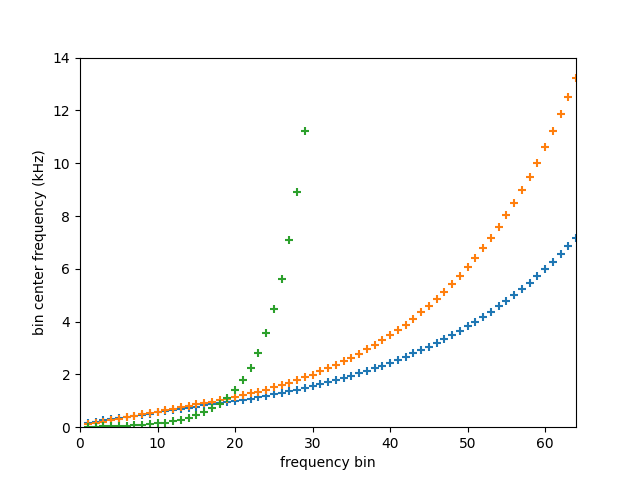
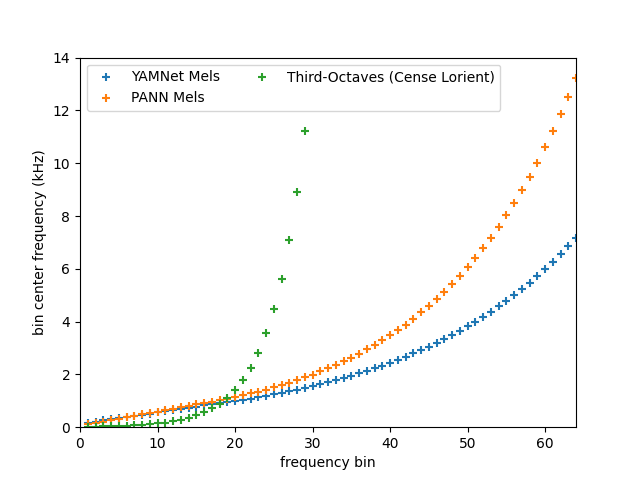
add images in readme

Changed region(s): [[0.4375, 0.125, 0.7812, 0.1875], [0.1875, 0.125, 0.3438, 0.2188]]

diff --git a/plot_thirdo_mel_bands_repartition.py b/plot_thirdo_mel_bands_repartition.py
@@ -13,9 +13,10 @@ mel_filter_pann_index = np.argmax(mel_filter_pann, axis=1)*scaling_factor
 tho_filter_index = np.argmax(tho_filter, axis=1)*scaling_factor
 plt.xlabel('frequency bin')
 plt.ylabel('bin center frequency (kHz)')
-plt.scatter(np.arange(1,len(mel_filter_yamnet_index)+1), mel_filter_yamnet_index, marker="+")
-plt.scatter(np.arange(1,len(mel_filter_pann_index)+1), mel_filter_pann_index, marker="+")
-plt.scatter(np.arange(1,len(tho_filter_index)+1), tho_filter_index, marker="+")
+plt.scatter(np.arange(1,len(mel_filter_yamnet_index)+1), mel_filter_yamnet_index, marker="+", label = "YAMNet Mels")
+plt.scatter(np.arange(1,len(mel_filter_pann_index)+1), mel_filter_pann_index, marker="+", label="PANN Mels")
+plt.scatter(np.arange(1,len(tho_filter_index)+1), tho_filter_index, marker="+", label="Third-Octaves (Cense Lorient)")
+plt.legend(ncol=2, bbox_to_anchor=(0, 1), loc='upper left')
 plt.ylim(0, 14)
 plt.xlim(0,64)
 plt.show()

diff --git a/README.md b/README.md
@@ -32,7 +32,7 @@ Those datasets must imperatively be downloaded through this command, as the name
 python3 download_datasets.py --output mypath
 ```
 
-### Experiment: training models
+### a) Experiment: training models
 
 Execute the following commands to generate third-octave and Mel data from the [TAU Urban Acoustic Scenes 2020 Mobile](https://dcase.community/challenge2021/task-acoustic-scene-classification) dataset. Those data will be used to train and evaluate the models in the subsequent sections. 
 
@@ -47,7 +47,7 @@ python3 exp_train_model/create_mel_tho_dataset.py --output_path yourpath/
 ```
 
 The experiment plan is developped with [doce](https://doce.readthedocs.io/en/latest/). 
-To reproduce only the results shown in the paper, please use the following commands:
+To reproduce only the results shown in the paper, please use the following commands (about 50h of calculation on a single GPU):
 
 ```
 python3 exp_train_model/launch_experiment/launch_exp_py.py --exp_type restricted
@@ -104,7 +104,7 @@ python3 exp_train_model/plot_training_curve.py
 ```
 
 
-### Experiment: Evaluate models on classification datasets
+### b) Experiment: Evaluate models on classification datasets
 
 To evaluate the model on [UrbanSound8k](https://urbansounddataset.weebly.com/urbansound8k.html) and [SONYC-UST](https://zenodo.org/record/3966543#.ZFtddpHP1kg), please execute the following commands to
 generate the logit data (classes predictions) from the classifiers and the transcoded classifiers. The
@@ -125,8 +125,8 @@ python3 exp_classif_eval/main_doce_score.py -s deep/ -c
 Then, you can export the results of the experiment ("results_classif_urbansound8k.png", "results_classif_sonycust.png") in a png format in the "export" folder using the following commands:
 
 ```
-python3 exp_classif_eval/main_doce_score.py -s "{'dataset':'URBAN-SOUND-8K'}" -d [0] -e results_classif_urbansound8k.png
-python3 exp_classif_eval/main_doce_score.py -s "{'dataset':'SONYC-UST'}" -d [1] -e results_classif_sonycust.png
+python3 exp_classif_eval/main_doce_score.py -s deep/dataset=URBAN-SOUND-8K -d [0] -e results_classif_urbansound8k.png
+python3 exp_classif_eval/main_doce_score.py -s deep/dataset=SONYC-UST -d [1] -e results_classif_sonycust.png
 ```
 
 
@@ -142,10 +142,26 @@ The generated wav files will be placed in the generated_audio folder. It will co
 
 ## 4 - Complementary experiment results
 
-The spectrograms shown in the paper are available in results/spectro_dcase_2023.png (run plot_spectro_dcase2023.py to replicate the figure).
+Figure below (run plot_spectro_dcase2023.py to replicate the figure) shows the transcoding result with several transcoding algorithm (PINV transcoder, CNN-mels transcoder and CNN-logits transcoder) on a 1s audio excerpt from the evaluation dataset.
 
-The figure results/thirdo_mels_bands_repartition.png (run plot_thirdo_mels_bands_repartition.py to replicate the figure) shows the repartition of the Mel spectrograms bands and the third-octave bands on the frequency axis. This repartition clearly shows that there are more third-octave bands in the lower frequencies (below 1kHz) than there are Mel bands. This demonstrates that the task of transforming Mel bands into third-octave bands is not obvious, even if there are more Mel bins in Mel spectrograms.
+<img src="resources/spectro_dcase_2023.png" width=400>
 
-As stated in the paper *Spectral Transcoder : Using Pretrained Urban Sound Classifiers On Undersampled Spectral Representations*, we propose a revised version of F.Gontier et al. aggregation method proposed in the paper [Polyphonic training set synthesis improves self-supervised urban sound classification](https://hal-nantes-universite.archives-ouvertes.fr/hal-03262863/). During inference, some of the classes that were considered relevant for each SONYC-UST class are grouped. The groups made during inference are the one in the files exp_classif_eval/sub_classes_sonyc_ust.xlsx and exp_classif_eval/sub_classes_urbansound8k.xlsx. In Gontier et al. 's paper, if in the highest top 3 predictions of YamNet one predicted class among the 527 belongs to one of the meta-classes (traffic, voice, birds in their paper), the meta-class was considered present. Instead of taking the top 3, the top 8 classes of SONYC-UST is taken into account for the aggregation. In our case, we believe that Gontier et al.'s method can result in some false negatives for multi-label classification. For example, if there are is some music in the audio excerpt, it is very likely that the 8 first predicted classes will be related to music (ex: 1:Music, 2:Musical Instrument, 3:Guitar, 4:Pop Music, 5:Drum, 6:Piano, 7:Bass Guitar, 8:Acoustic Guitar), and so the next prediction at position 9 will not be considered present in the audio excerpt (ex: 9: Speech). We propose to group classes together during inference, so that it leads to less false negatives (ex: 1:SONYC-UST Music 2: SONYC-UST HumanVoice, 3: Mosquito etc...). This lead to a higher mAUC than Gontier et al's method for SONYC-UST. The same kind of aggregation is made for UrbanSound8k, but in a more simple multi-class classification paradigm (the meta-class is present if one of its classes has the highest score). 
+Being able to transcode Mel spectrograms into third-octave spectrograms easily would have been convenient for training a deep learning model. This would for example allow an auto-encoding approach. Nevertheless, this task is not obvious, even if there are more Mel bins in Mel spectrograms. Indeed, figures below (run plot_thirdo_mels_bands_repartition.py to replicate the figure) shows the repartition of the Mel spectral bands and the third-octave bands on the frequency axis. As there are more third-octave bands in the lower frequencies (below 1kHz) than there are Mel bands, we cannot easily transcode Mels to third-octaves, particularly in that part of the spectrum. 
 
+<img src="resources/thirdo_mels_bands_repartition.png" width=400>
+
+As stated in the paper *Spectral Transcoder : Using Pretrained Urban Sound Classifiers On Undersampled Spectral Representations*, we propose a revised version of F.Gontier et al. aggregation method proposed in the paper [Polyphonic training set synthesis improves self-supervised urban sound classification](https://hal-nantes-universite.archives-ouvertes.fr/hal-03262863/). During inference, some of the classes that were considered relevant for each SONYC-UST class are grouped. The groups made during inference are the one in the files exp_classif_eval/sub_classes_sonyc_ust.xlsx and exp_classif_eval/sub_classes_urbansound8k.xlsx. 
+
+In Gontier et al. 's paper, if in the highest top 3 predictions of YamNet one predicted class among the 527 belongs to one of the meta-classes (traffic, voice, birds in their paper), the meta-class was considered present. Instead of taking the top 3, the top 8 classes of SONYC-UST is taken into account for the aggregation. In our case, we believe that Gontier et al.'s method can result in some false negatives for multi-label classification. For example, if there are is some music in the audio excerpt, it is very likely that the 8 first predicted classes will be related to music (ex: 1:Music, 2:Musical Instrument, 3:Guitar, 4:Pop Music, 5:Drum, 6:Piano, 7:Bass Guitar, 8:Acoustic Guitar), and so the next prediction at position 9 will not be considered present in the audio excerpt (ex: 9: Speech). We propose to group classes together during inference, so that it leads to less false negatives (ex: 1:SONYC-UST Music 2: SONYC-UST HumanVoice, 3: Mosquito etc...). This lead to a higher mAUC than Gontier et al's method for SONYC-UST. The same kind of aggregation is made for UrbanSound8k, but in a more simple multi-class classification paradigm (the meta-class is present if one of its classes has the highest score). 
+
+The results of this method, compared to the method where we add fully connected layers at the output of the pre-trained models (method explained in the paper), are shown in the table below. Where deep is set to 1, it means that fully connected layers are used, where deep is set to 0, it means that the aggregation method mentioned in the previous paragraph is used.
+
+<img src="resources/results_classif_sonycust.png" width=400>
+<img src="resources/results_classif_urbansound8k.png" width=400>
+
+The images above can be replicated using the following commands (after running part 2-b):
+```
+python3 exp_classif_eval/main_doce_score.py -s "{'dataset':'URBAN-SOUND-8K'}" -d [0] -e results_classif_urbansound8k.png
+python3 exp_classif_eval/main_doce_score.py -s "{'dataset':'SONYC-UST'}" -d [1] -e results_classif_sonycust.png
+```
 
